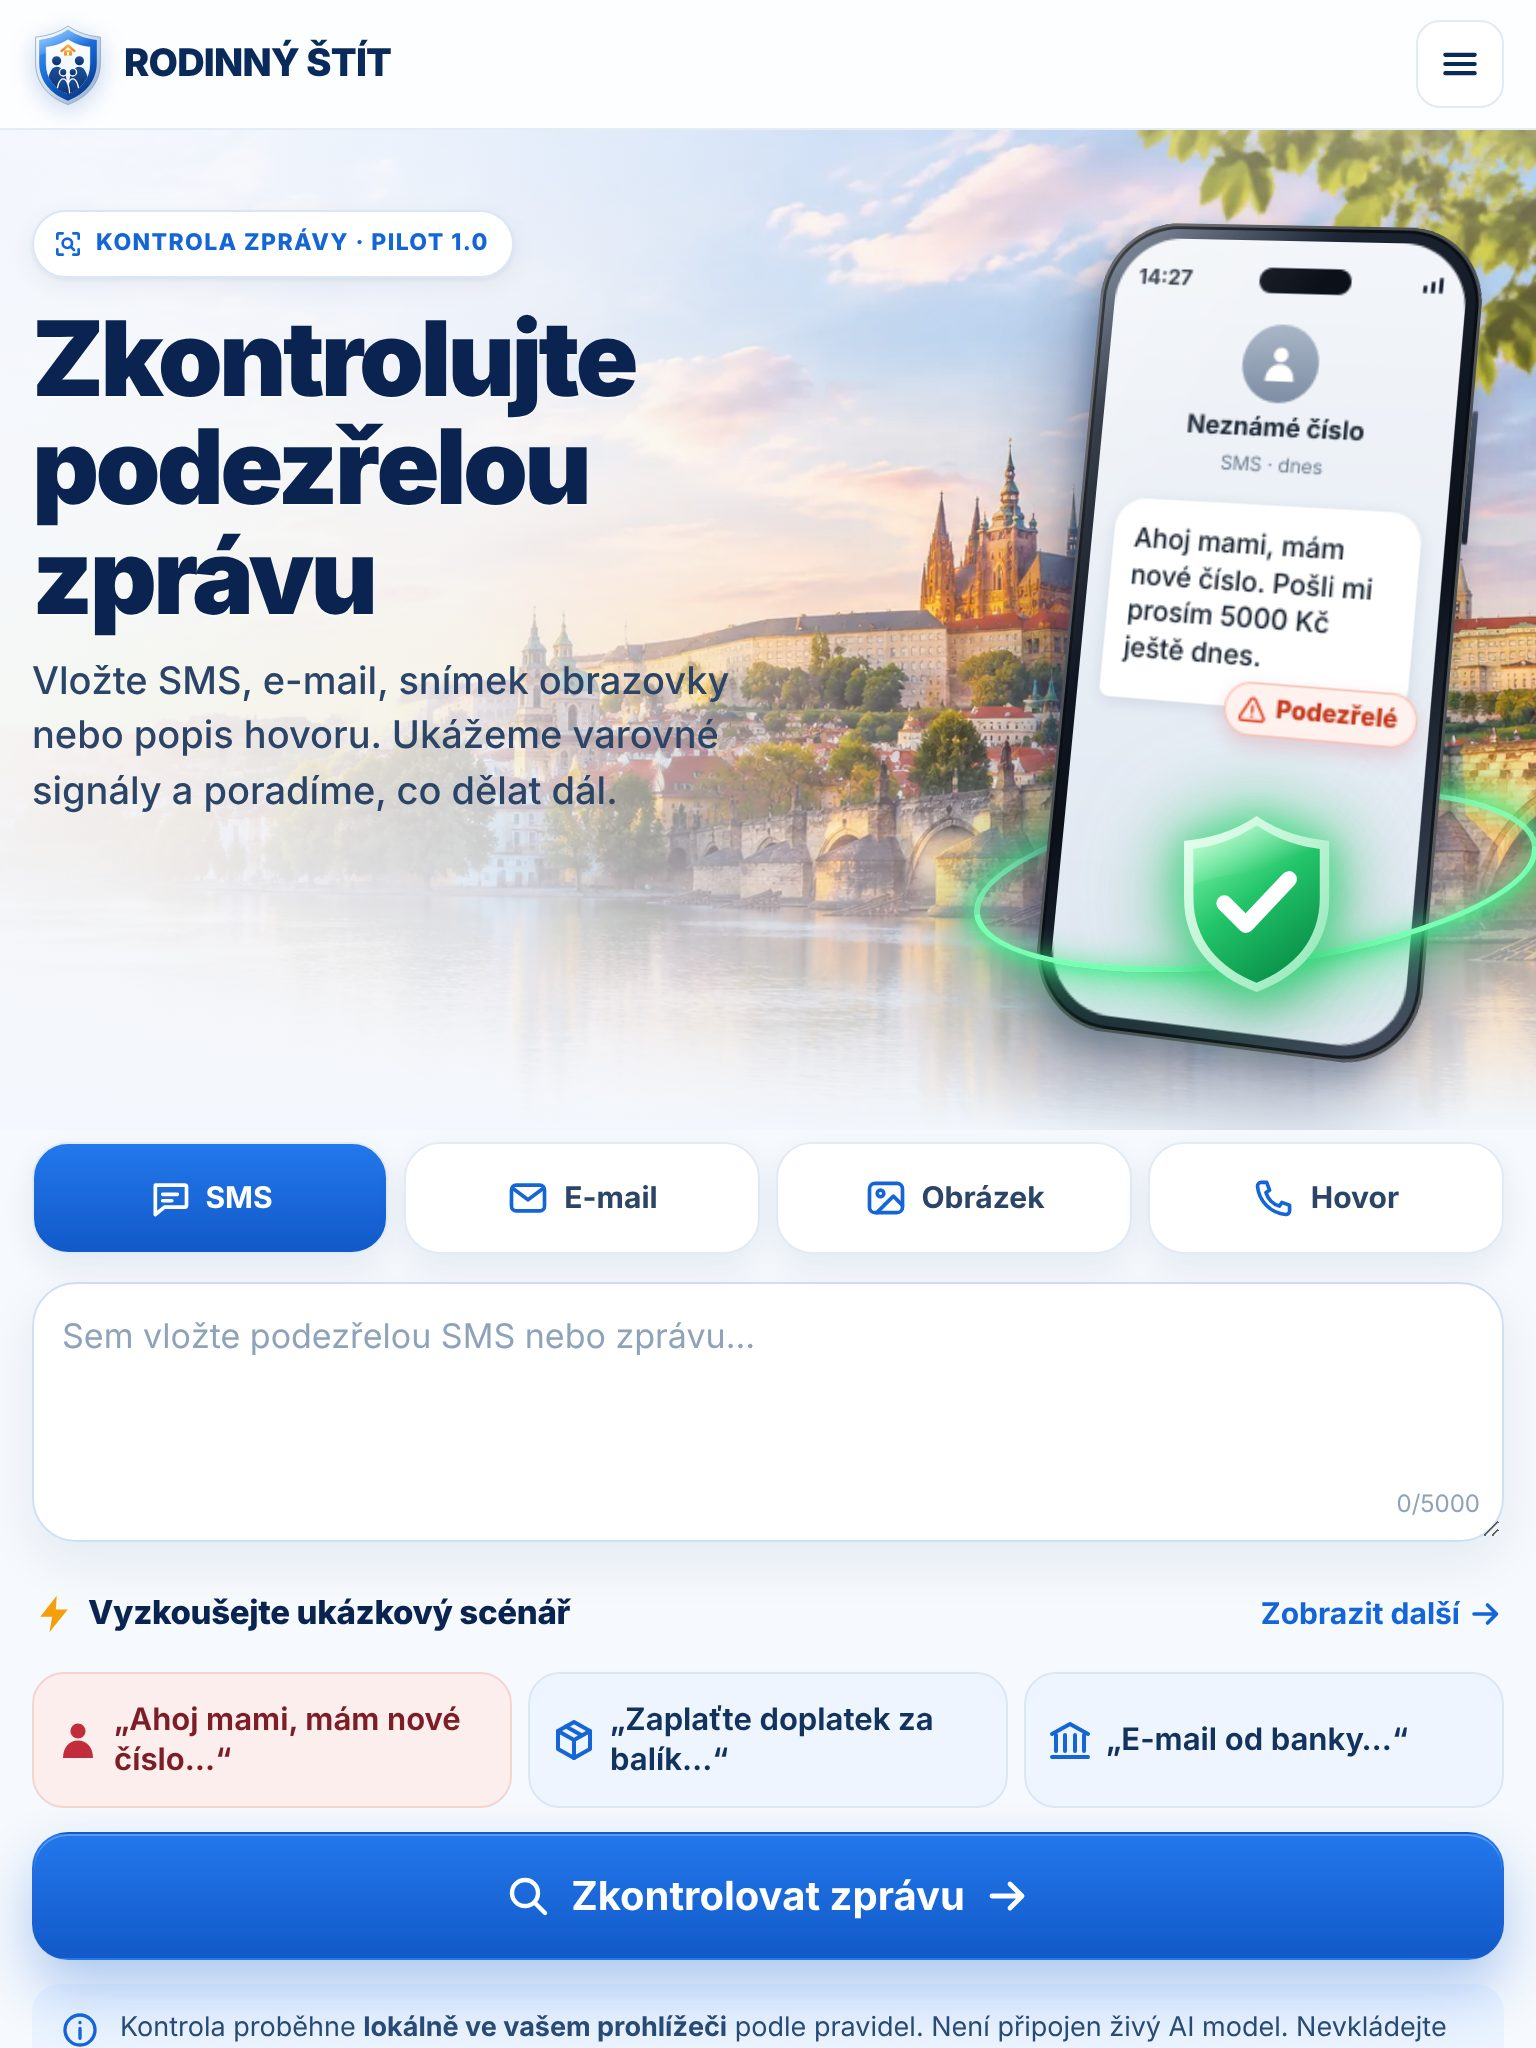
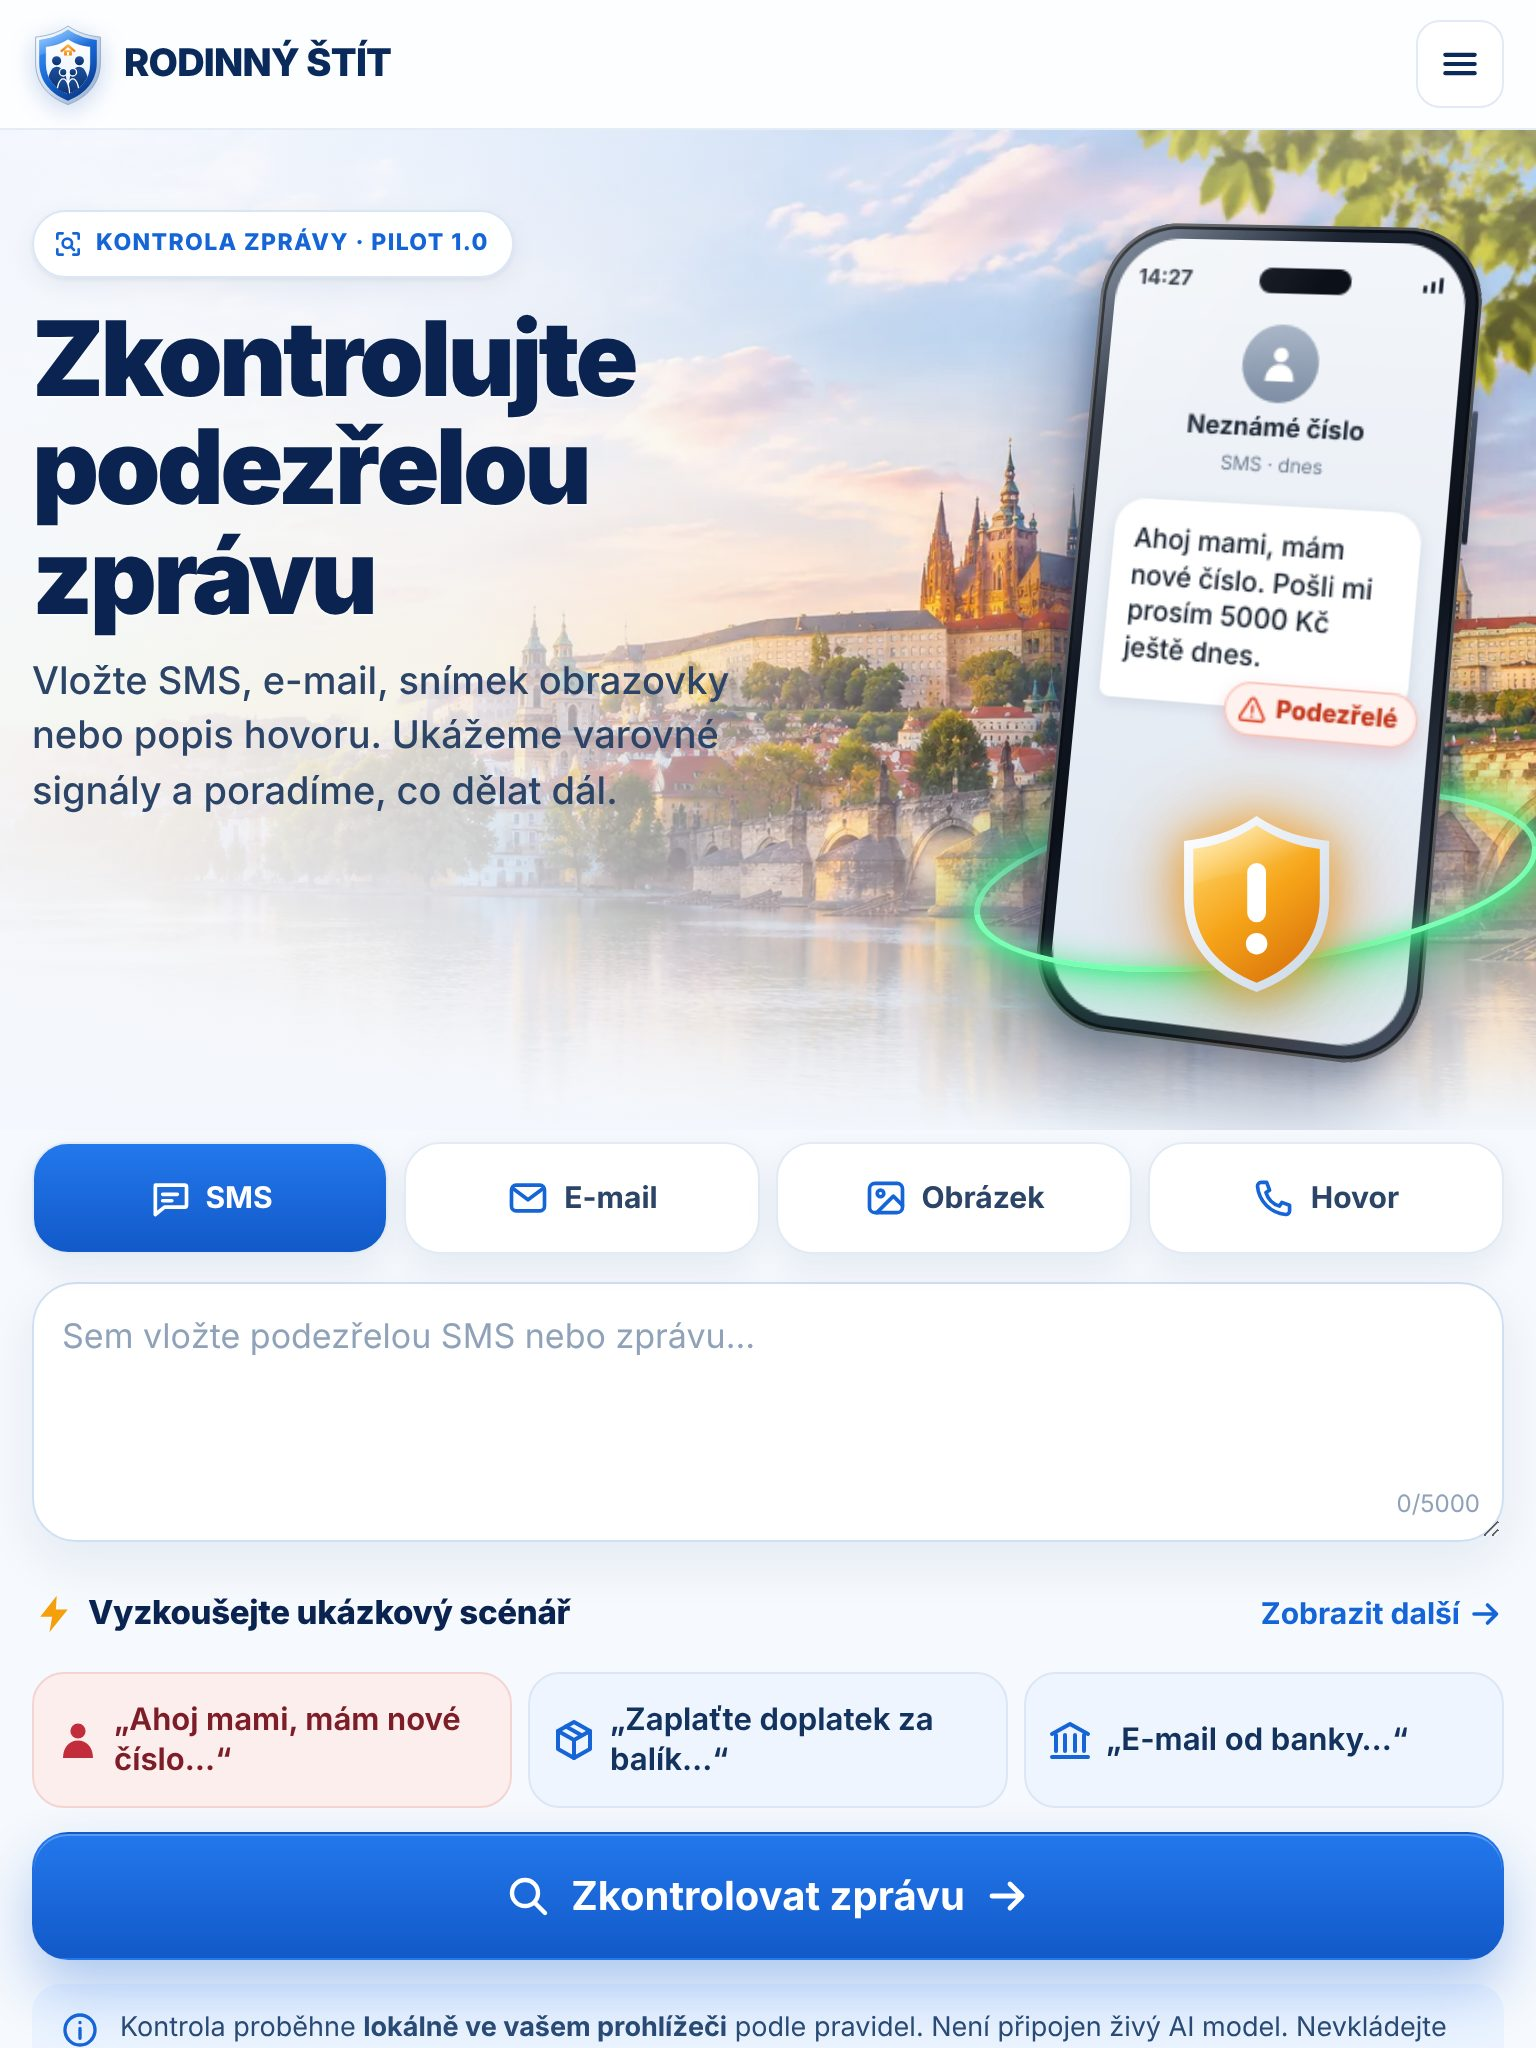
Pilot 1.1: warning shield animation - neutral while scanning, amber '!' on detection
- Remove green check shield (could read as 'SMS is safe'); neutral grey-blue
  shield with magnifier during scan, smooth transition to amber warning
  shield with exclamation mark, brief glow on shield and 'Podezřelé' flag
- Green ring kept, orbiting the phone (back arc behind, front arc in front),
  now during the scan stage; ~2 s total, plays once, ends in warning state
- prefers-reduced-motion shows the final warning state immediately
- Hero QA 143 checks (final amber state, no green check, ring layering),
  regression 267, AI mock 99, unit 25; screenshots and filmstrip refreshed

Claude-Session: https://claude.ai/code/session_01Paeb9iCqmWhxdnvg5v51aq

Changed region(s): [[0.7188, 0.375, 0.9062, 0.5]]

diff --git a/assets/style.css b/assets/style.css
@@ -448,8 +448,6 @@ html{overflow-x:clip}
 .ph-flag .ico{width:1.25em;height:1.25em;color:#e0482c}
 .ph-scan{position:absolute;left:0;right:0;top:-30%;height:28%;background:linear-gradient(180deg,rgba(90,190,255,0) 0%,rgba(90,190,255,.32) 80%,rgba(130,230,255,.9) 100%);opacity:0;pointer-events:none}
 .ph-shield{position:absolute;left:50%;bottom:6%;width:56%;transform:translateX(-50%);display:grid;place-items:center}
-.ph-guard{position:relative;z-index:1;width:72%;height:auto;overflow:visible;filter:drop-shadow(0 0 10px rgba(60,230,130,.85)) drop-shadow(0 0 22px rgba(60,230,130,.55)) drop-shadow(0 6px 10px rgba(4,90,45,.35))}
-.ph-guard .g-check{stroke-dasharray:80;stroke-dashoffset:0}
 .ph-device{z-index:2}
 .ph-shield{z-index:4}
 /* zelený prstenec obíhá telefon: zadní polovina za telefonem, přední před ním */
@@ -466,17 +464,12 @@ html{overflow-x:clip}
 .pilot-hero.play .ph-bubble{animation:phPop .35s .7s cubic-bezier(.2,.9,.3,1.3) both}
 .pilot-hero.play .ph-scan{animation:phScan .6s .95s ease-in-out both}
 .pilot-hero.play .ph-shield{animation:phUp .4s .5s ease-out both}
-.pilot-hero.play .ph-guard{animation:guardOn .5s 1.2s cubic-bezier(.2,.9,.3,1.3) both}
-.pilot-hero.play .ph-guard .g-check{animation:checkDraw .35s 1.4s ease-out both}
-.pilot-hero.play .ph-orbit{animation:phRing .7s 1.25s ease-out both}
-.pilot-hero.play .ph-flag{animation:phPop .35s 1.65s cubic-bezier(.2,.9,.3,1.4) both}
+.pilot-hero.play .ph-orbit{animation:phRing .7s .85s ease-out both}
 @keyframes phBg{from{opacity:0;transform:scale(1.04)}to{opacity:1;transform:none}}
 @keyframes phUp{from{opacity:0;transform:translateY(10px)}to{opacity:1;transform:none}}
 @keyframes phPhone{from{opacity:0;transform:translateY(34px) rotateY(-30deg) rotateX(10deg) rotateZ(8deg)}to{opacity:1;transform:rotateY(-16deg) rotateX(5deg) rotateZ(4deg)}}
 @keyframes phPop{from{opacity:0;transform:translateY(6px) scale(.9)}to{opacity:1;transform:none}}
 @keyframes phScan{0%{opacity:0;top:-30%}15%{opacity:1}85%{opacity:1}100%{opacity:0;top:105%}}
-@keyframes guardOn{0%{filter:grayscale(1) brightness(.85) drop-shadow(0 0 0 rgba(60,230,130,0));transform:scale(.9)}55%{filter:grayscale(0) brightness(1.35) drop-shadow(0 0 30px rgba(80,255,160,1)) drop-shadow(0 0 50px rgba(80,255,160,.7));transform:scale(1.08)}100%{filter:drop-shadow(0 0 10px rgba(60,230,130,.85)) drop-shadow(0 0 22px rgba(60,230,130,.55)) drop-shadow(0 6px 10px rgba(4,90,45,.35));transform:scale(1)}}
-@keyframes checkDraw{from{stroke-dashoffset:80}to{stroke-dashoffset:0}}
 @keyframes phRing{0%{opacity:0;transform:translate(-50%,-50%) rotate(-7deg) scale(.55)}60%{opacity:1}100%{transform:translate(-50%,-50%) rotate(-7deg) scale(1)}}
 @media (prefers-reduced-motion:reduce){.pilot-hero *{animation:none!important}}
 
@@ -538,3 +531,22 @@ textarea.input:focus{box-shadow:0 0 0 4px rgba(90,169,255,.22),0 10px 26px rgba(
 }
 
 #panel-text .tools{margin-top:12px}
+
+/* 1.1b · štít: neutrální při skenování → jantarové varování „!“ (žádná zelená fajfka) */
+.ph-guard{position:relative;z-index:1;width:72%;height:auto;overflow:visible;filter:drop-shadow(0 0 10px rgba(255,170,40,.75)) drop-shadow(0 0 22px rgba(255,160,30,.45)) drop-shadow(0 6px 10px rgba(120,60,0,.3))}
+.ph-guard .g-neutral,.ph-guard .g-scan{opacity:0}
+.ph-guard .g-amber,.ph-guard .g-excl{opacity:1}
+.ph-guard .g-excl{transform-box:fill-box;transform-origin:center}
+.pilot-hero.play .ph-guard{animation:guardWarn .6s 1.45s ease-out both}
+.pilot-hero.play .ph-guard .g-neutral{animation:fadeOut .35s 1.45s ease-in both}
+.pilot-hero.play .ph-guard .g-scan{animation:fadeOut .25s 1.45s ease-in both}
+.pilot-hero.play .ph-guard .g-amber{animation:fadeIn .35s 1.45s ease-out both}
+.pilot-hero.play .ph-guard .g-excl{animation:exclPop .4s 1.6s cubic-bezier(.2,.9,.3,1.4) both}
+.pilot-hero.play .ph-flag{animation:phPop .35s 1.6s cubic-bezier(.2,.9,.3,1.4) both,flagGlow .4s 1.9s ease-out both}
+@keyframes fadeOut{from{opacity:1}to{opacity:0}}
+@keyframes fadeIn{from{opacity:0}to{opacity:1}}
+@keyframes exclPop{from{opacity:0;transform:scale(.4)}to{opacity:1;transform:scale(1)}}
+@keyframes guardWarn{0%{filter:drop-shadow(0 0 8px rgba(160,190,230,.6)) drop-shadow(0 6px 10px rgba(30,50,80,.25));transform:scale(1)}
+ 50%{filter:drop-shadow(0 0 20px rgba(255,175,40,1)) drop-shadow(0 0 36px rgba(255,160,30,.7)) drop-shadow(0 6px 10px rgba(120,60,0,.3));transform:scale(1.07)}
+ 100%{filter:drop-shadow(0 0 10px rgba(255,170,40,.75)) drop-shadow(0 0 22px rgba(255,160,30,.45)) drop-shadow(0 6px 10px rgba(120,60,0,.3));transform:scale(1)}}
+@keyframes flagGlow{0%{box-shadow:0 4px 10px rgba(212,47,66,.18)}50%{box-shadow:0 0 0 5px rgba(240,120,40,.25),0 0 18px rgba(240,90,40,.55)}100%{box-shadow:0 4px 10px rgba(212,47,66,.18)}}

diff --git a/pilot.html b/pilot.html
@@ -48,7 +48,7 @@
    <h1 id="home-title">Zkontrolujte podezřelou zprávu</h1>
    <p class="ph-lead">Vložte SMS, e-mail, snímek obrazovky nebo popis hovoru. Ukážeme varovné signály a poradíme, co dělat dál.</p>
   </div>
-  <div class="ph-stage" role="img" aria-label="Ukázka: telefon s podezřelou SMS „Ahoj mami, mám nové číslo. Pošli mi prosím 5000 Kč ještě dnes.“, kterou ochranný štít zkontroloval a označil jako podezřelou.">
+  <div class="ph-stage" role="img" aria-label="Ukázka: telefon s podezřelou SMS „Ahoj mami, mám nové číslo. Pošli mi prosím 5000 Kč ještě dnes.“, kterou ochranný štít zkontroloval a označil varováním jako podezřelou.">
    <i class="ph-orbit back" aria-hidden="true"></i>
    <div class="ph-device">
     <div class="ph-screen">
@@ -61,14 +61,17 @@
    <i class="ph-orbit front" aria-hidden="true"></i>
    <div class="ph-shield"><svg class="ph-guard" viewBox="0 0 120 136" aria-hidden="true">
      <defs>
-      <linearGradient id="gShield" x1=".2" x2=".8" y1="0" y2="1"><stop offset="0" stop-color="#7cf5a8"/><stop offset=".45" stop-color="#22c46a"/><stop offset="1" stop-color="#078a45"/></linearGradient>
-      <linearGradient id="gRim" x1="0" x2="1" y1="0" y2="1"><stop offset="0" stop-color="#eafff2"/><stop offset="1" stop-color="#8fe7b5"/></linearGradient>
+      <linearGradient id="gNeutral" x1=".2" x2=".8" y1="0" y2="1"><stop offset="0" stop-color="#dfe8f3"/><stop offset=".5" stop-color="#9fb2c9"/><stop offset="1" stop-color="#6c8199"/></linearGradient>
+      <linearGradient id="gAmber" x1=".2" x2=".8" y1="0" y2="1"><stop offset="0" stop-color="#ffd76a"/><stop offset=".5" stop-color="#f6a419"/><stop offset="1" stop-color="#d9720b"/></linearGradient>
+      <linearGradient id="gRim" x1="0" x2="1" y1="0" y2="1"><stop offset="0" stop-color="#ffffff"/><stop offset="1" stop-color="#c9d6e6"/></linearGradient>
       <linearGradient id="gGloss" x1="0" x2=".6" y1="0" y2=".7"><stop offset="0" stop-color="#fff" stop-opacity=".6"/><stop offset="1" stop-color="#fff" stop-opacity="0"/></linearGradient>
      </defs>
-     <path class="g-rim" d="M60 3c18 12.5 36 16.5 54 18.5V64c0 35-22 58-54 70C28 122 6 99 6 64V21.5C24 19.5 42 15.5 60 3Z" fill="url(#gRim)"/>
-     <path class="g-body" d="M60 10c17 11.5 33 15.5 47 17.5V64c0 31-19 52-47 63C32 116 13 95 13 64V27.5C27 25.5 43 21.5 60 10Z" fill="url(#gShield)"/>
+     <path d="M60 3c18 12.5 36 16.5 54 18.5V64c0 35-22 58-54 70C28 122 6 99 6 64V21.5C24 19.5 42 15.5 60 3Z" fill="url(#gRim)"/>
+     <path class="g-neutral" d="M60 10c17 11.5 33 15.5 47 17.5V64c0 31-19 52-47 63C32 116 13 95 13 64V27.5C27 25.5 43 21.5 60 10Z" fill="url(#gNeutral)"/>
+     <path class="g-amber" d="M60 10c17 11.5 33 15.5 47 17.5V64c0 31-19 52-47 63C32 116 13 95 13 64V27.5C27 25.5 43 21.5 60 10Z" fill="url(#gAmber)"/>
      <path d="M60 10c17 11.5 33 15.5 47 17.5V52C84 45 50 40 13 54V27.5C27 25.5 43 21.5 60 10Z" fill="url(#gGloss)"/>
-     <path class="g-check" d="M36 68l16 16 32-34" fill="none" stroke="#fff" stroke-width="12" stroke-linecap="round" stroke-linejoin="round"/>
+     <g class="g-scan" fill="none" stroke="#fff" stroke-width="7" stroke-linecap="round" opacity=".9"><circle cx="56" cy="62" r="15"/><path d="m67 73 11 11"/></g>
+     <g class="g-excl" fill="#fff"><rect x="53" y="38" width="14" height="44" rx="7"/><circle cx="60" cy="98" r="8"/></g>
     </svg></div>
   </div>
  </div>

diff --git a/assets/app.js b/assets/app.js
@@ -411,7 +411,7 @@ function playHeroIntro() {
   const reduce = window.matchMedia && window.matchMedia('(prefers-reduced-motion: reduce)').matches;
   if (reduce) { hero.classList.add('done'); return; }
   hero.classList.add('play');
-  setTimeout(() => { hero.classList.remove('play'); hero.classList.add('done'); }, 2400);
+  setTimeout(() => { hero.classList.remove('play'); hero.classList.add('done'); }, 2500);
 }
 
 /* ---------- inicializace (jen v prohlížeči) ---------- */

diff --git a/qa/pilot-1.1/README.md b/qa/pilot-1.1/README.md
@@ -8,10 +8,10 @@ Větev `feature/pilot-first-impression-1` (od `feature/ai-analysis-1`). `main`, 
 - `anim-390-*ms.jpg` – snímky animace (80 → 2300 ms), `pilot-390-reduced-motion.jpg`, `pilot-390-scenario-selected.jpg`, `pilot-390-zoom130.jpg`
 
 ## Shody s referencí
-Pražský hrad + Karlův most za scénou se světlým přechodem; naklopený realistický telefon vpravo s podezřelou SMS „Ahoj mami, mám nové číslo. Pošli mi prosím 5000 Kč ještě dnes.“; zelený štít s fajfkou, který se po skenování rozsvítí, a zelený prstenec, který obíhá telefon – zadní oblouk za telefonem, přední před ním (jako v referenci); štítek „Kontrola zprávy · pilot 1.0“, velký nadpis a popis vlevo; 4 záložky SMS / E-mail / Obrázek / Hovor; velké pole s počítadlem 0/5000; „Vyzkoušejte ukázkový scénář“ + „Zobrazit další →“ a tři karty (červená „Ahoj mami…“, „Zaplaťte doplatek za balík…“, „E-mail od banky…“); velké modré tlačítko „Zkontrolovat zprávu →“; zelený pruh tří výhod.
+Pražský hrad + Karlův most za scénou se světlým přechodem; naklopený realistický telefon vpravo s podezřelou SMS „Ahoj mami, mám nové číslo. Pošli mi prosím 5000 Kč ještě dnes.“; varovný štít (neutrální → jantarový „!“) a zelený prstenec, který obíhá telefon – zadní oblouk za telefonem, přední před ním (jako v referenci); štítek „Kontrola zprávy · pilot 1.0“, velký nadpis a popis vlevo; 4 záložky SMS / E-mail / Obrázek / Hovor; velké pole s počítadlem 0/5000; „Vyzkoušejte ukázkový scénář“ + „Zobrazit další →“ a tři karty (červená „Ahoj mami…“, „Zaplaťte doplatek za balík…“, „E-mail od banky…“); velké modré tlačítko „Zkontrolovat zprávu →“; zelený pruh tří výhod.
 
 ## Záměrné rozdíly
-1. Štít je podle reference zelený s fajfkou: během skenování je šedý, pak se rozsvítí zeleně a dokreslí fajfku („kontrola proběhla, ochrana zasáhla“). Aby to nevypadalo jako „SMS je bezpečná“, objeví se hned poté na rohu bubliny varování „Podezřelé“.
+1. Štít **není** zelený s fajfkou (to by mohlo znamenat „SMS je bezpečná“). Při skenování je neutrální (šedomodrý s lupou), po detekci se plynule změní na **jantarový varovný štít s „!“** a u SMS se objeví „Podezřelé“ s krátkým zvýrazněním. Zelený prstenec obíhající telefon zůstává.
 2. Místo telefonního čísla „Neznámé číslo“ (žádné reálné číslo).
 3. Telefon nepřekrývá nadpis – nadpis má proto 3 řádky místo 2.
 4. Větší písmo (popis 16–19 px, záložky 14–15 px, karty 14 px) a vyšší dotykové plochy kvůli seniorům → obrazovka je delší než reference; na ≤ 440 px mají záložky ikonu nad textem.
@@ -20,4 +20,7 @@ Pražský hrad + Karlův most za scénou se světlým přechodem; naklopený rea
 7. Fotografie Prahy: originál 1680×944 od vlastníka (WebP 42 kB / 127 kB).
 
 ## Testy
-`node tests/browser-qa-hero.cjs` (128 kontrol), `node tests/browser-qa.cjs` (267), `node tests/browser-qa-ai.cjs` (99), `npm test` (25) – vše PASS; `node tests/browser-qa-ai.cjs`, `npm test` – bez sítě a placených volání.
+`node tests/browser-qa-hero.cjs` (143 kontrol), `node tests/browser-qa.cjs` (267), `node tests/browser-qa-ai.cjs` (99), `npm test` (25) – vše PASS; `node tests/browser-qa-ai.cjs`, `npm test` – bez sítě a placených volání.
+
+## Animace (cca 2 s, jednou)
+1. 0–0,85 s: scéna Prahy a telefon · 2. 0,7–1,6 s: SMS, zelený prstenec obíhá telefon (zadní oblouk za ním, přední před ním), linka skenování, štít neutrální · 3. 1,45–2,3 s: štít → jantarový „!“, „Podezřelé“ s krátkým zvýrazněním · 4. konec ve varovném stavu, nic nebliká. `prefers-reduced-motion` zobrazí rovnou konečný stav. Viz `animation-filmstrip.jpg`.
